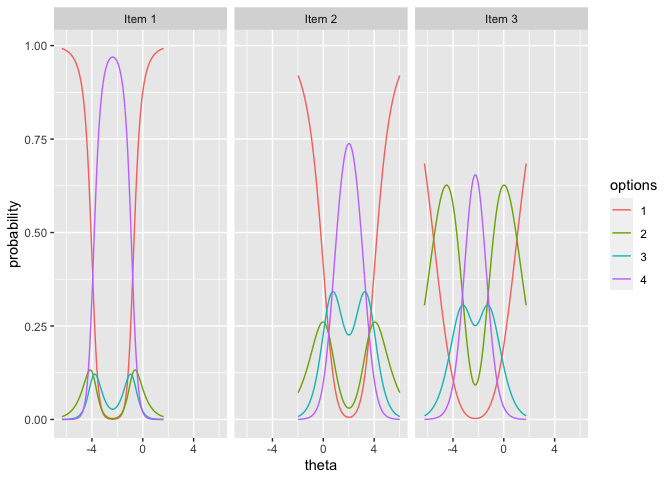
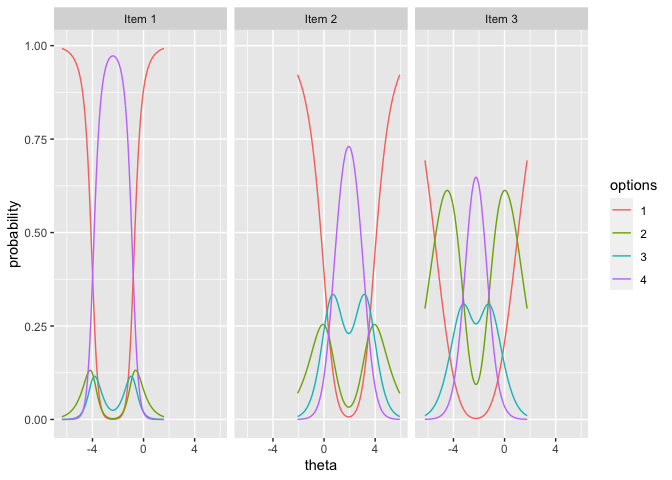
Changes based on CRAN comments

diff --git a/README.md b/README.md
@@ -76,16 +76,16 @@ theta <- matrix(theta, nrow=2)
 theta <- t(theta)
 # theta estimates in p*trait matrix format
 theta
-#>              [,1]        [,2]
-#>  [1,]  1.01172010  0.03007375
-#>  [2,] -1.49457843 -0.28825368
-#>  [3,] -1.24305523 -0.56841647
-#>  [4,]  0.70989404  1.00436767
-#>  [5,] -0.05374441 -0.81460972
-#>  [6,]  0.10233920 -0.82928930
-#>  [7,]  0.80263701  0.21347193
-#>  [8,]  0.11552137  0.54509935
-#>  [9,]  0.67097662  0.89182374
+#>             [,1]        [,2]
+#>  [1,]  0.9977184  0.01112729
+#>  [2,] -1.5137988 -0.26130229
+#>  [3,] -1.2383928 -0.51014273
+#>  [4,]  0.6429536  0.96231967
+#>  [5,]  0.1022404 -0.77041882
+#>  [6,]  0.2422658 -0.81961973
+#>  [7,]  0.8798949  0.21385359
+#>  [8,]  0.0232542  0.48839644
+#>  [9,]  0.6409609  0.85435679
 
 # 3.2 Extract the tau estimates 
 tau <- extract.bmggum(x=mod, pars='tau')
@@ -97,10 +97,10 @@ tau <- t(tau)
 # tau estimates in I*(option-1) matrix format
 tau
 #>            [,1]       [,2]       [,3]
-#> [1,] -0.8444732 -1.5242984 -2.2944532
-#> [2,] -1.5878937 -1.8973009 -1.1197230
-#> [3,] -3.2735301 -0.9010291 -0.8618411
-#> [4,] -2.3371485 -1.3746858 -1.0575782
+#> [1,] -0.8601315 -1.5171512 -2.3487840
+#> [2,] -1.5118220 -1.8748204 -1.1150521
+#> [3,] -3.2244393 -0.9178486 -0.8499165
+#> [4,] -2.3530145 -1.3686902 -1.0433142
 
 # 3.3 Extract the lambda estimates 
 lambda <- extract.bmggum(x=mod, pars='lambda')
@@ -108,11 +108,11 @@ lambda <- extract.bmggum(x=mod, pars='lambda')
 # lambda[1,2] is the coefficient linking person covariate 1 to latent trait 2
 lambda
 #>                   mean    se_mean        sd       2.5%        50%     97.5%
-#> lambda[1,1]  0.2300054 0.02218539 0.4684616 -0.6407667  0.2297074 1.2042006
-#> lambda[1,2] -0.3465347 0.04595152 0.6728208 -1.8855763 -0.2677931 0.8448643
+#> lambda[1,1]  0.2926780 0.03282858 0.5288196 -0.6823047  0.2649516 1.4666352
+#> lambda[1,2] -0.3318111 0.04430572 0.7047325 -2.0250724 -0.2730557 0.7944527
 #>                n_eff     Rhat
-#> lambda[1,1] 445.8758 1.000741
-#> lambda[1,2] 214.3873 1.003417
+#> lambda[1,1] 259.4842 1.010909
+#> lambda[1,2] 253.0049 1.027205
 
 ## Step 4: Obtain model fit statistics 
 waic <- modfit.bmggum(x=mod, index='waic')
@@ -120,7 +120,7 @@ loo <- modfit.bmggum(mod)
 
 ## Step 5: Plottings
 # 5.1 Obtain the density plots for alpha
-bayesplot.bmggum(x=mod, pars='alpha', plot='density', inc_warmup=F)
+bayesplot.bmggum(x=mod, pars='alpha', plot='density', inc_warmup=FALSE)
 ```
 
 <img src="man/figures/README-example-1.png" width="70%" />
